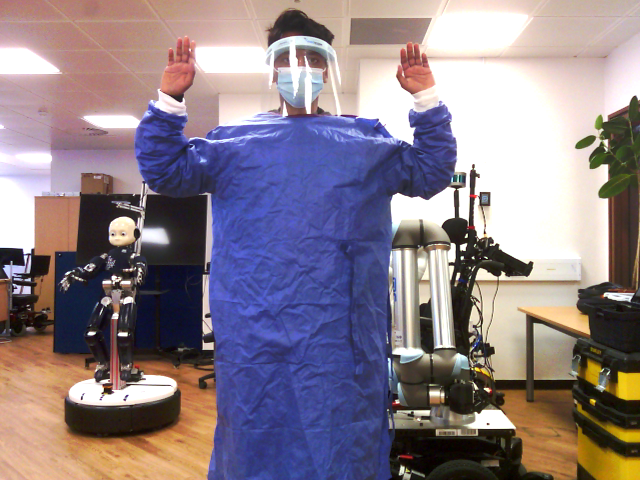
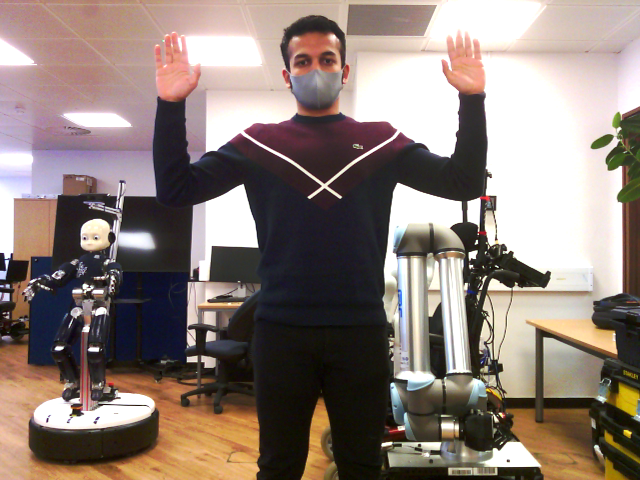
fixed movement

diff --git a/FinalCode/movement.py b/FinalCode/movement.py
@@ -1,91 +1,78 @@
 import qi
-import argparse
+from naoqi import ALProxy
 import sys
 import time
 import almath
-from naoqi import ALProxy
-import numpy as np
-
 
 def main(session):
-    """
-    This example uses the angleInterpolation method.
-    """
-    # Get the service ALMotion.
 
-    tts = ALProxy("ALTextToSpeech", "10.0.0.83", 9559)
-    # tts.say("Connected to Aru's computer")
+    ms = session.service("ALMotion")
+    tts = session.service("ALTextToSpeech")
+    # bas = session.service("ALBasicAwareness")
+    bas = ALProxy("ALBasicAwareness", "10.0.0.83", 9559)
 
-    motion_service  = session.service("ALMotion")
+    # ms.setStiffnesses("Body", 0.0)
+    bas.pauseAwareness()
 
-    motion_service.setStiffnesses("Elbow", 1.0)
-    motion_service.setStiffnesses("RShoulder", 1.0)
-    motion_service.setStiffnesses("LShoulder", 1.0)
-    motion_service.setStiffnesses("Wrist", 1.0)
-    motion_service.setStiffnesses("ShoulderPitch", 1.0)
+    print("Awareness paused: " + str(bas.isAwarenessPaused()))
 
-    # Example showing a single trajectory for one joint
-    # Interpolates the head yaw to 1.0 radian and back to zero in 2.0 seconds
-    names      = ["RElbowRoll",
-                    "RShoulderPitch",
-                    "RShoulderRoll",
-                    "LElbowRoll",  
-                    "LShoulderPitch",
-                    "LShoulderRoll",]
-    #              2 angles
-    angleLists = [[70.0,70.0],
-                    [30.0,30.0],
-                    [-30.0,-30.0],
-                    [-70.0,-70.0],
-                    [30.0,30.0],
-                    [30.0,30.0]]
-    #              2 times
-    timeLists  = [[2.0,8.0],[2.0,8.0],[2.0,8.0],[2.0,8.0],[2.0,8.0],[2.0,8.0]]
+    ms.setStiffnesses("LArm", 1.0)
+    ms.setStiffnesses("RArm", 1.0)
 
-    # names = [
-    #     "RShoulderPitch",
-    #     "RShoulderRoll"
-    # ]
+    names = [
+        "RElbowRoll",
+        "RElbowYaw",
+        "RShoulderRoll",
+        "RShoulderPitch",
+        "LElbowRoll",
+        "LElbowYaw",
+        "LShoulderRoll",
+        "LShoulderPitch",
+    ]
 
-    # angleLists = [
-    #     [50.], 
-    #     [-30.],   #10., 20., 
-    # ]
+    angles = [
+        90.0,
+        90.0,
+        -90.0,
+        0.0,
+        -90.0,
+        -90.0,
+        90.0,
+        0.0,
+    ]
 
-    angleLists  = [[i*(np.pi/180) for i in inner] for inner in angleLists]
-    print(angleLists)
-   
-    #              2 times
-    # timeLists  = [[1,2.0,3,4,8.0],[1,2.0,3,4,8.0],[2.0,8.0],[1,2.0,3,4,8.0],[2.0,8.0],[2.0,8.0]]
-    # timeLists = [1., 2., 3., 5., 6, 7., 8.]
-    # timeLists = [[2.], [2.]]
+    angles = [i*almath.TO_RAD for i in angles]
+    times = [3.0] * len(names)
     isAbsolute = True
-    tts.say("Please put your arms up like this")
-    print("Putting arms up")
-    motion_service.angleInterpolation(names, angleLists, timeLists, isAbsolute)
-    print([(180/np.pi)*i for i in motion_service.getAngles("RArm", False)])
-  
-    time.sleep(1.0)
 
-    # angleLists = [[30., 0.]]
-    # angleLists  = [[i*(np.pi/180) for i in inner] for inner in angleLists]
-    # timeLists = [1., 2., 3., 4.]
-    # print("Putting arms down")
-    # motion_service.angleInterpolation(names, angleLists, timeLists, isAbsolute)
+    print("Putting arms up...")
+    ms.angleInterpolation(names, angles, times, isAbsolute, _async = True)
+    tts.say("Please put your arms up like this")
+    time.sleep(1.5)
+
+#   Comment this block out if you don't want to see angles
+    angs = ms.getAngles(names, False)
+    angs = [i*almath.TO_DEG for i in angs]
+    print("Angles: " + str(angs))
+
+    print("Loosening arms...")
+    ms.setStiffnesses(names, 0.05)
+    time.sleep(2)
+
+    ms.setStiffnesses(names, 0.0)
+
+    # print("Awareness paused: " + str(bas.isAwarenessPaused()))
+    bas.resumeAwareness()
+    print("Awareness paused: " + str(bas.isAwarenessPaused()))
+
+    print("All done!")
 
 if __name__ == "__main__":
-    parser = argparse.ArgumentParser()
-    parser.add_argument("--ip", type=str, default="10.0.0.83",
-                        help="Robot IP address. On robot or Local Naoqi: use '127.0.0.1'.")
-    parser.add_argument("--port", type=int, default=9559,
-                        help="Naoqi port number")
-
-    args = parser.parse_args()
     session = qi.Session()
     try:
-        session.connect("tcp://" + args.ip + ":" + str(args.port))
+        session.connect("tcp://10.0.0.83:9559")
     except RuntimeError:
-        print ("Can't connect to Naoqi at ip \"" + args.ip + "\" on port " + str(args.port) +".\n"
+        print ("Can't connect to Naoqi at ip '10.0.0.83' on port '9559'.\n"
                "Please check your script arguments. Run with -h option for help.")
         sys.exit(1)
     main(session)

diff --git a/FinalCode/donning.py b/FinalCode/donning.py
@@ -57,7 +57,7 @@ class HumanGreeter(object):
                 movement.main(self.session)
                 takePicture.main(self.session)
                 t2 = datetime.now()
-                self.tts.say("Picture Taken")
+                
 
                 print( 'analyzing stuff')
                 os.system('python3 CompiledModels.py')
